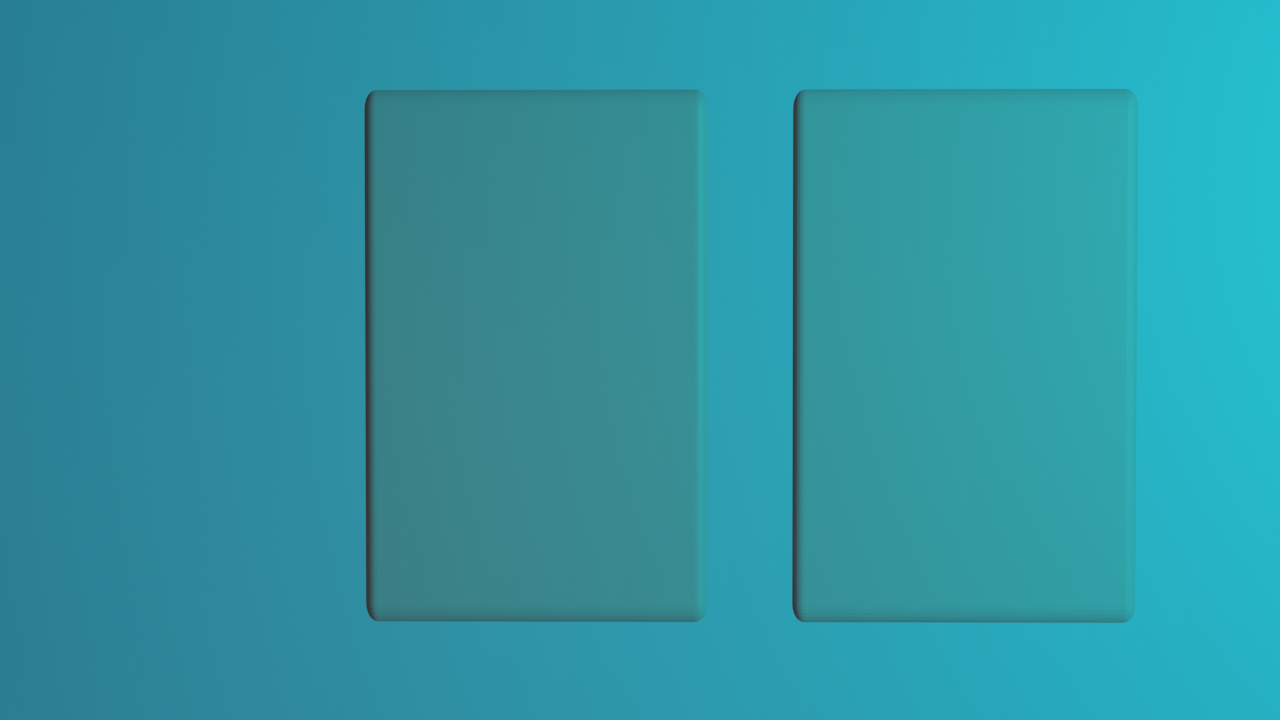
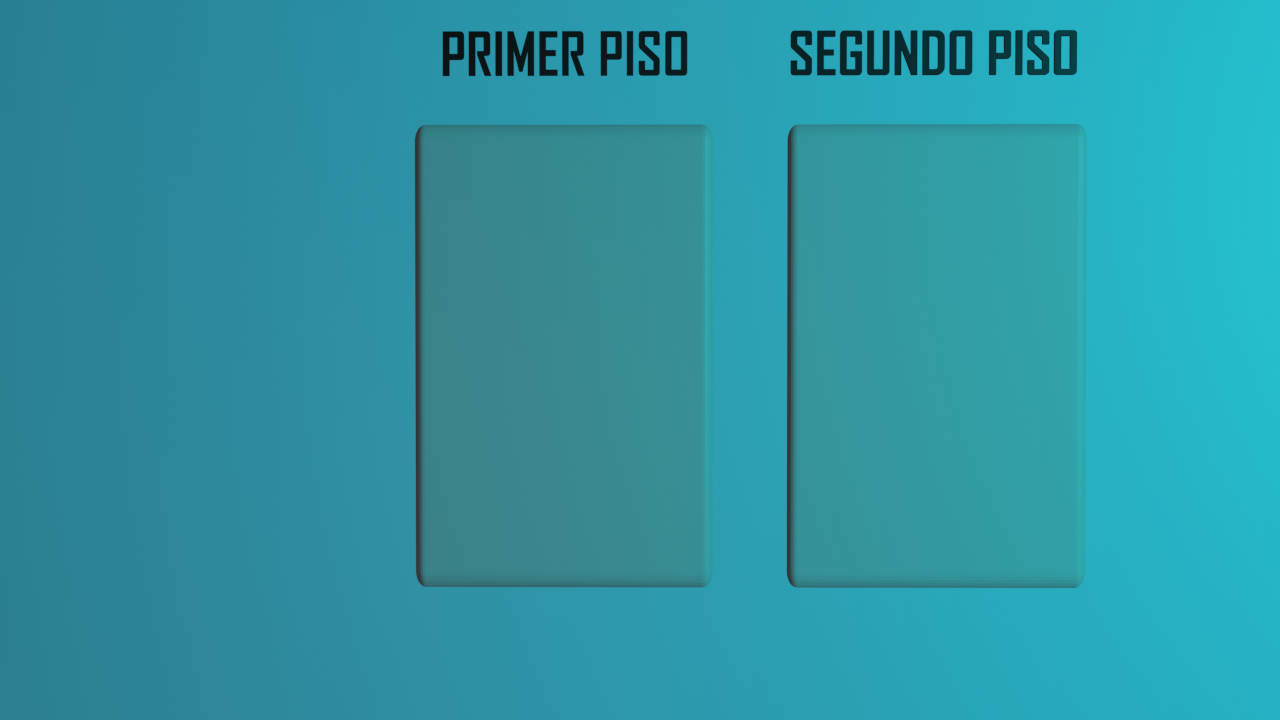
feat
display completo de los botones de los asientos

Changed region(s): [[0.5938, 0.0306, 0.9062, 0.8861], [0.2812, 0.0306, 0.5625, 0.8861]]

diff --git a/src/Interfaz/VentanaAsientos.java b/src/Interfaz/VentanaAsientos.java
@@ -28,27 +28,69 @@ public class VentanaAsientos extends Ventana{
         this.setContentPane(fondo);fondo.setIcon(imagenfondo);fondo.setLayout(null);this.setResizable(false);this.setDefaultCloseOperation(EXIT_ON_CLOSE);
         this.setSize(1280,720);this.setVisible(true);
 
-        primerpiso.setLayout(new FlowLayout(FlowLayout.TRAILING,10,10));
-        primerpiso.setBounds(100,100,200,200);
-        primerpiso.repaint(100,100,200,200);
+        primerpiso.setLayout(new FlowLayout(FlowLayout.TRAILING,65,20));
+        primerpiso.setBounds(400,105,300,450);
         primerpiso.setVisible(true);
         fondo.add(primerpiso);
 
-        System.out.println(depositoBuses.getBus(Integer.parseInt(numerobus.getText())).gettipo());
+        segundopiso.setLayout(new FlowLayout(FlowLayout.TRAILING,65,20));
+        segundopiso.setBounds(800,105,300,450);
+        segundopiso.setVisible(true);
+        fondo.add(segundopiso);
 
         if(Objects.equals(depositoBuses.getBus(Integer.parseInt(numerobus.getText())).gettipo(), "Bus de 1 piso")) {
 
             System.out.println("bus de 1 piso");
             for(int i=0;i<14;i++){
-                JButton asiento=new JButton(Integer.toString(i));
-                asiento.setBounds(1,1,10,10);
-                primerpiso.add(asiento);
+                if(i<10){
+                    JButton asiento=new JButton("0"+Integer.toString(i));
+                    asiento.setPreferredSize(new Dimension(60,40));
+                    primerpiso.add(asiento);
+
+                }
+                else{
+                    JButton asiento=new JButton(Integer.toString(i));
+                    asiento.setPreferredSize(new Dimension(60,40));
+                    primerpiso.add(asiento);
+                }
+
             }
 
-
         }
+
         else{
+
+            for(int i=0;i<14;i++){
+                if(i<10){
+                    JButton asiento=new JButton("0"+Integer.toString(i));
+                    asiento.setPreferredSize(new Dimension(60,40));
+                    primerpiso.add(asiento);
+
+                }
+                else{
+                    JButton asiento=new JButton(Integer.toString(i));
+                    asiento.setPreferredSize(new Dimension(60,40));
+                    primerpiso.add(asiento);
+                }
+
+            }
+
             System.out.println("bus de 2 pisos");
+            for(int i=0;i<10;i++){
+                if(i<10){
+                    JButton asiento=new JButton("0"+Integer.toString(i));
+                    asiento.setPreferredSize(new Dimension(60,40));
+                    segundopiso.add(asiento);;
+
+
+                }
+                else{
+                    JButton asiento=new JButton(Integer.toString(i));
+                    asiento.setPreferredSize(new Dimension(60,40));
+                    segundopiso.add(asiento);
+                }
+
+            }
 
         }
 

diff --git a/src/Codigo/DepositoBuses.java b/src/Codigo/DepositoBuses.java
@@ -30,7 +30,7 @@ public class DepositoBuses {
 
 
     public void llenardospisos(){
-        for(int i=1;i<100;i++){
+        for(int i=1;i<101;i++){
             l=tramo.nextInt(6)+1;
             m=fechas.nextInt(17)+1;
             int horasalidareal =8+horasalida.nextInt(15);
@@ -39,7 +39,7 @@ public class DepositoBuses {
         }
     }
     public void llenarunpiso(){
-        for(int i=100;i<200;i++){
+        for(int i=100;i<201;i++){
             j=tramo.nextInt(6)+1;
             k=fechas.nextInt(17)+1;
             int horasalidareal=8+horasalida.nextInt(15);
